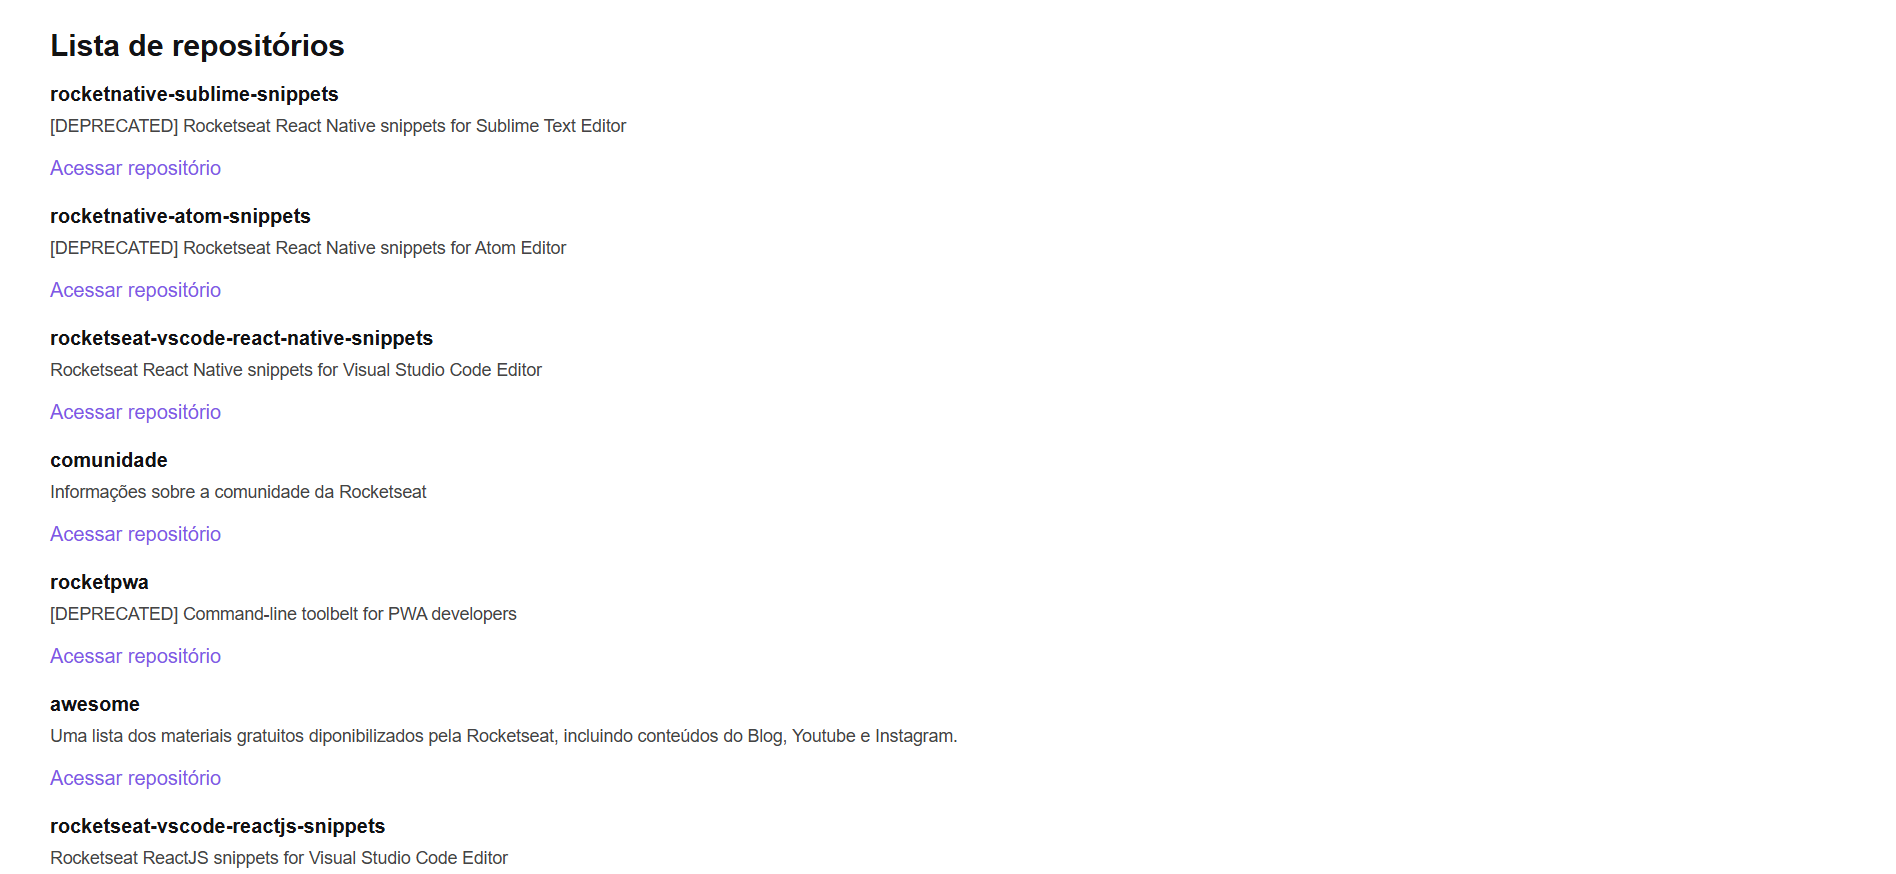
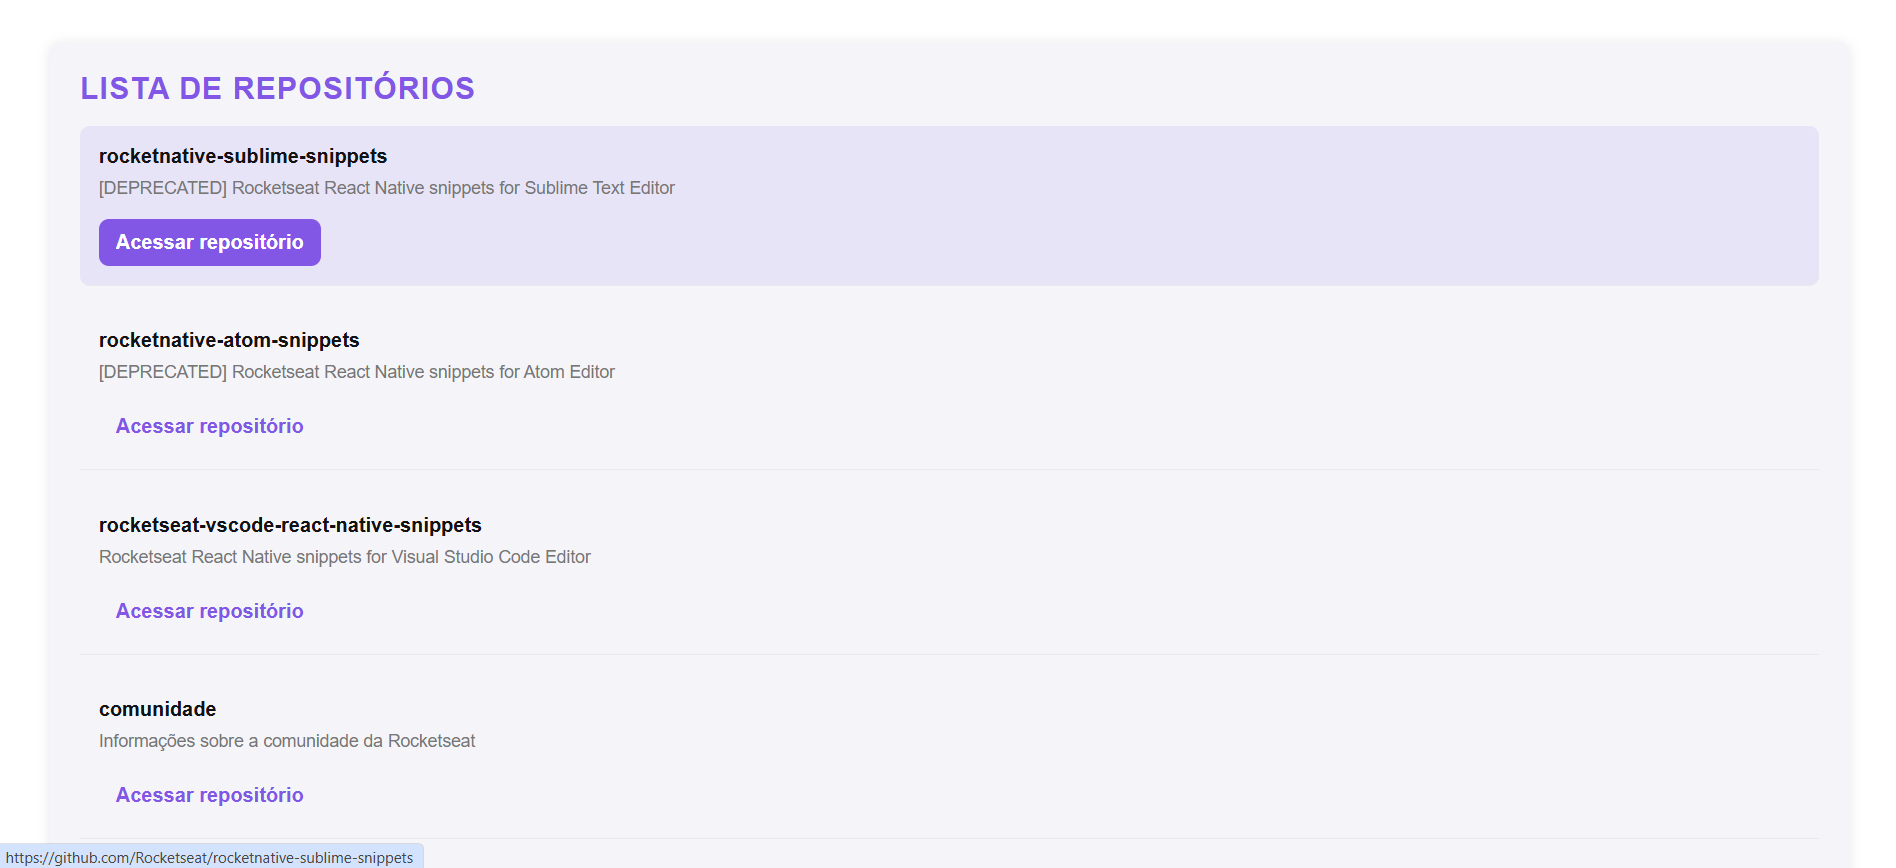
Utilizando React DevTools + Melhorando CSS da aplicação

diff --git a/src/styles/repositories.scss b/src/styles/repositories.scss
@@ -1,29 +1,72 @@
+$primary-color: #8257e6;
+$secondary-color: #6c5ce7;
+$text-color: #444;
+$text-light-color: #777;
+$background-color: #f4f4f9;
+$spacing-unit: 16px;
+$radius: 8px;
+
+$font-family: 'Arial', sans-serif;
+
 section.repository-list {
   margin: 40px;
+  background-color: #fff;
+  padding: 24px;
+  border-radius: $radius;
+  box-shadow: 0 2px 10px rgba(0, 0, 0, 0.1);
+  background-color: $background-color;
 
   h1 {
+    font-family: 'Helvetica Neue', sans-serif;
+    font-size: 24px;
+    font-weight: bold;
+    color: $primary-color;
     margin-bottom: 16px;
+    text-transform: uppercase;
+    letter-spacing: 1px;
   }
 
   ul {
     list-style: none;
+    padding: 0;
 
     li {
-      & + li {
-        margin-top: 20px;
+      border-bottom: 1px solid #eaeaea;
+      padding: 15px;
+      margin-bottom: 20px;
+      transition: all 0.3s ease;
+
+      &:hover {
+        background-color: rgba(130, 87, 230, 0.1);
+        border-radius: $radius;
       }
 
       p {
         font-size: 14px;
-        color: #444;
+        color: $text-light-color;
         margin-top: 8px;
       }
 
       a {
         display: inline-block;
-        margin-top: 16px;
+        margin-top: $spacing-unit;
+        font-size: 16px;
+        font-weight: 600;
         text-decoration: none;
-        color: #8257e6;
+        color: $primary-color;
+        padding: 8px 12px;
+        border: 2px solid transparent;
+        border-radius: $radius;
+        transition: all 0.3s ease;
+        background-color: transparent;
+
+        &:hover {
+          background-color: $primary-color;
+          color: #fff;
+          border-color: $primary-color;
+          padding: 8px 12px;
+          text-decoration: none;
+        }
       }
     }
   }

diff --git a/README.md b/README.md
@@ -113,3 +113,7 @@ A aplicação começará a ser executada em http://localhost:8080
 
 - `yarn add @babel/preset-typescript -D` para instalar o preset-typescript (permite que você use TypeScript em seu projeto)
 - `yarn add @types/react-dom -D` para instalar a definição de tipo da biblioteca react-dom
+
+### Utilizando React DevTools
+
+- O React DevTools é uma ferramenta de depuração (debugging) disponível como extensão para os navegadores Google Chrome e Mozilla Firefox
